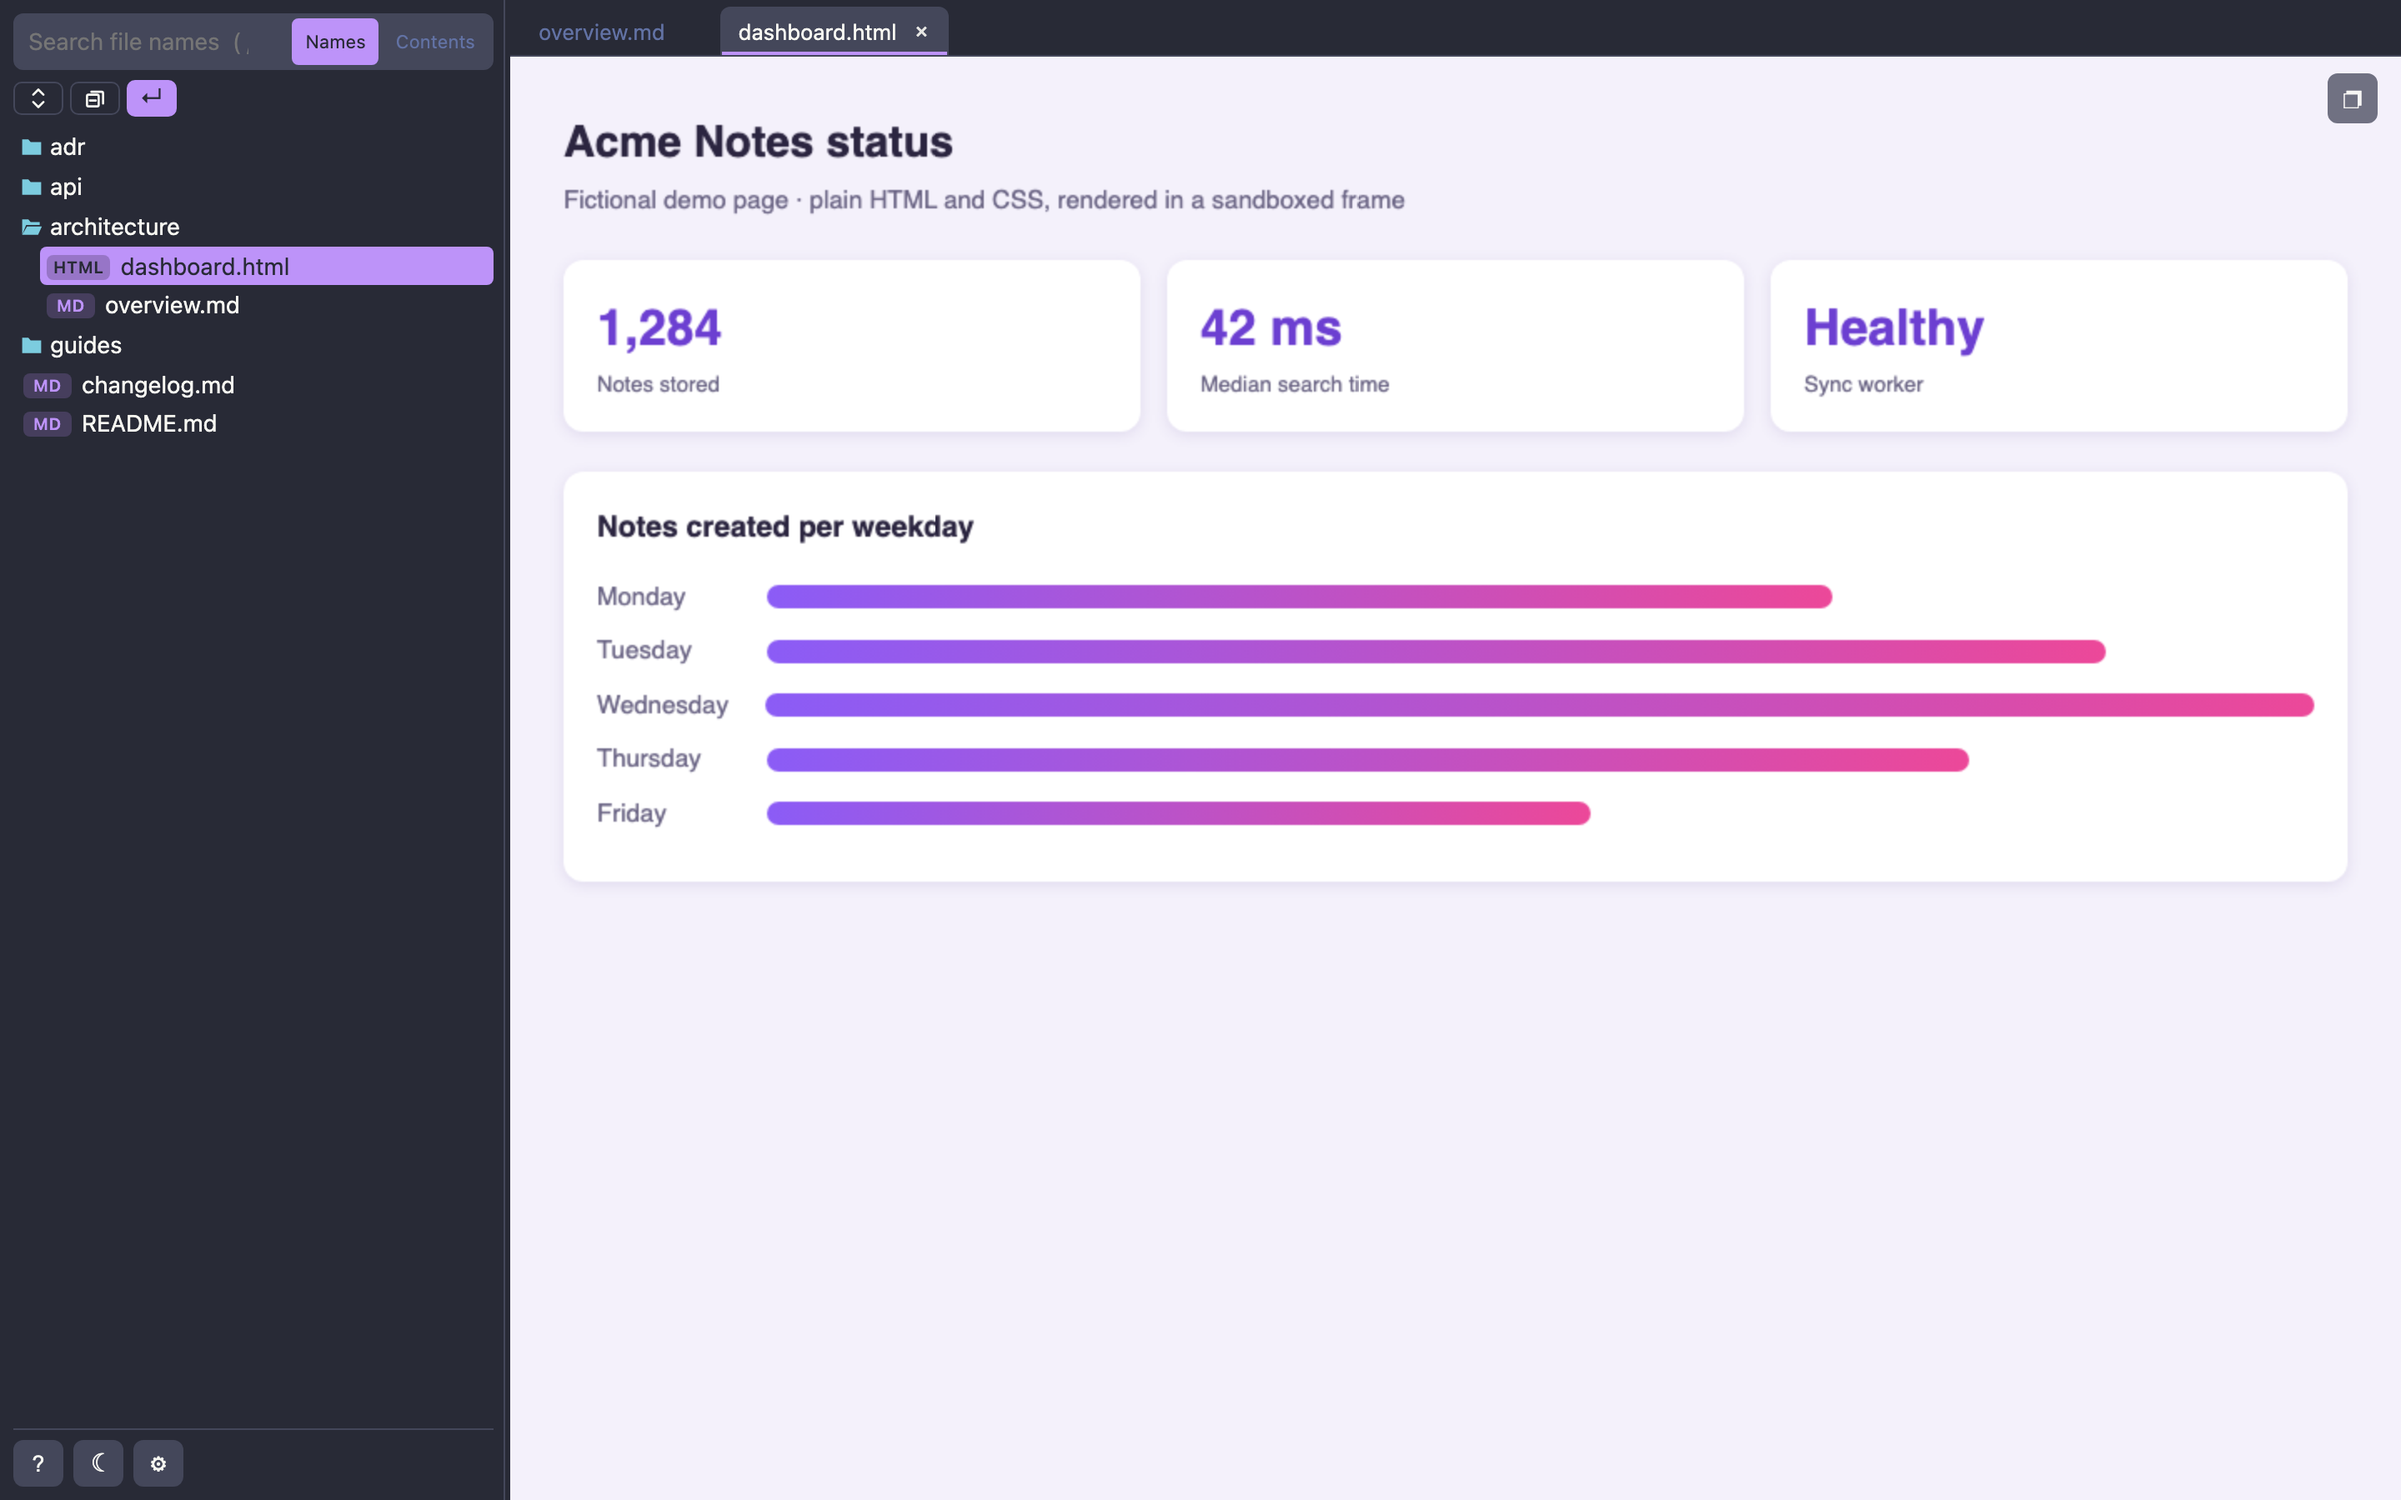
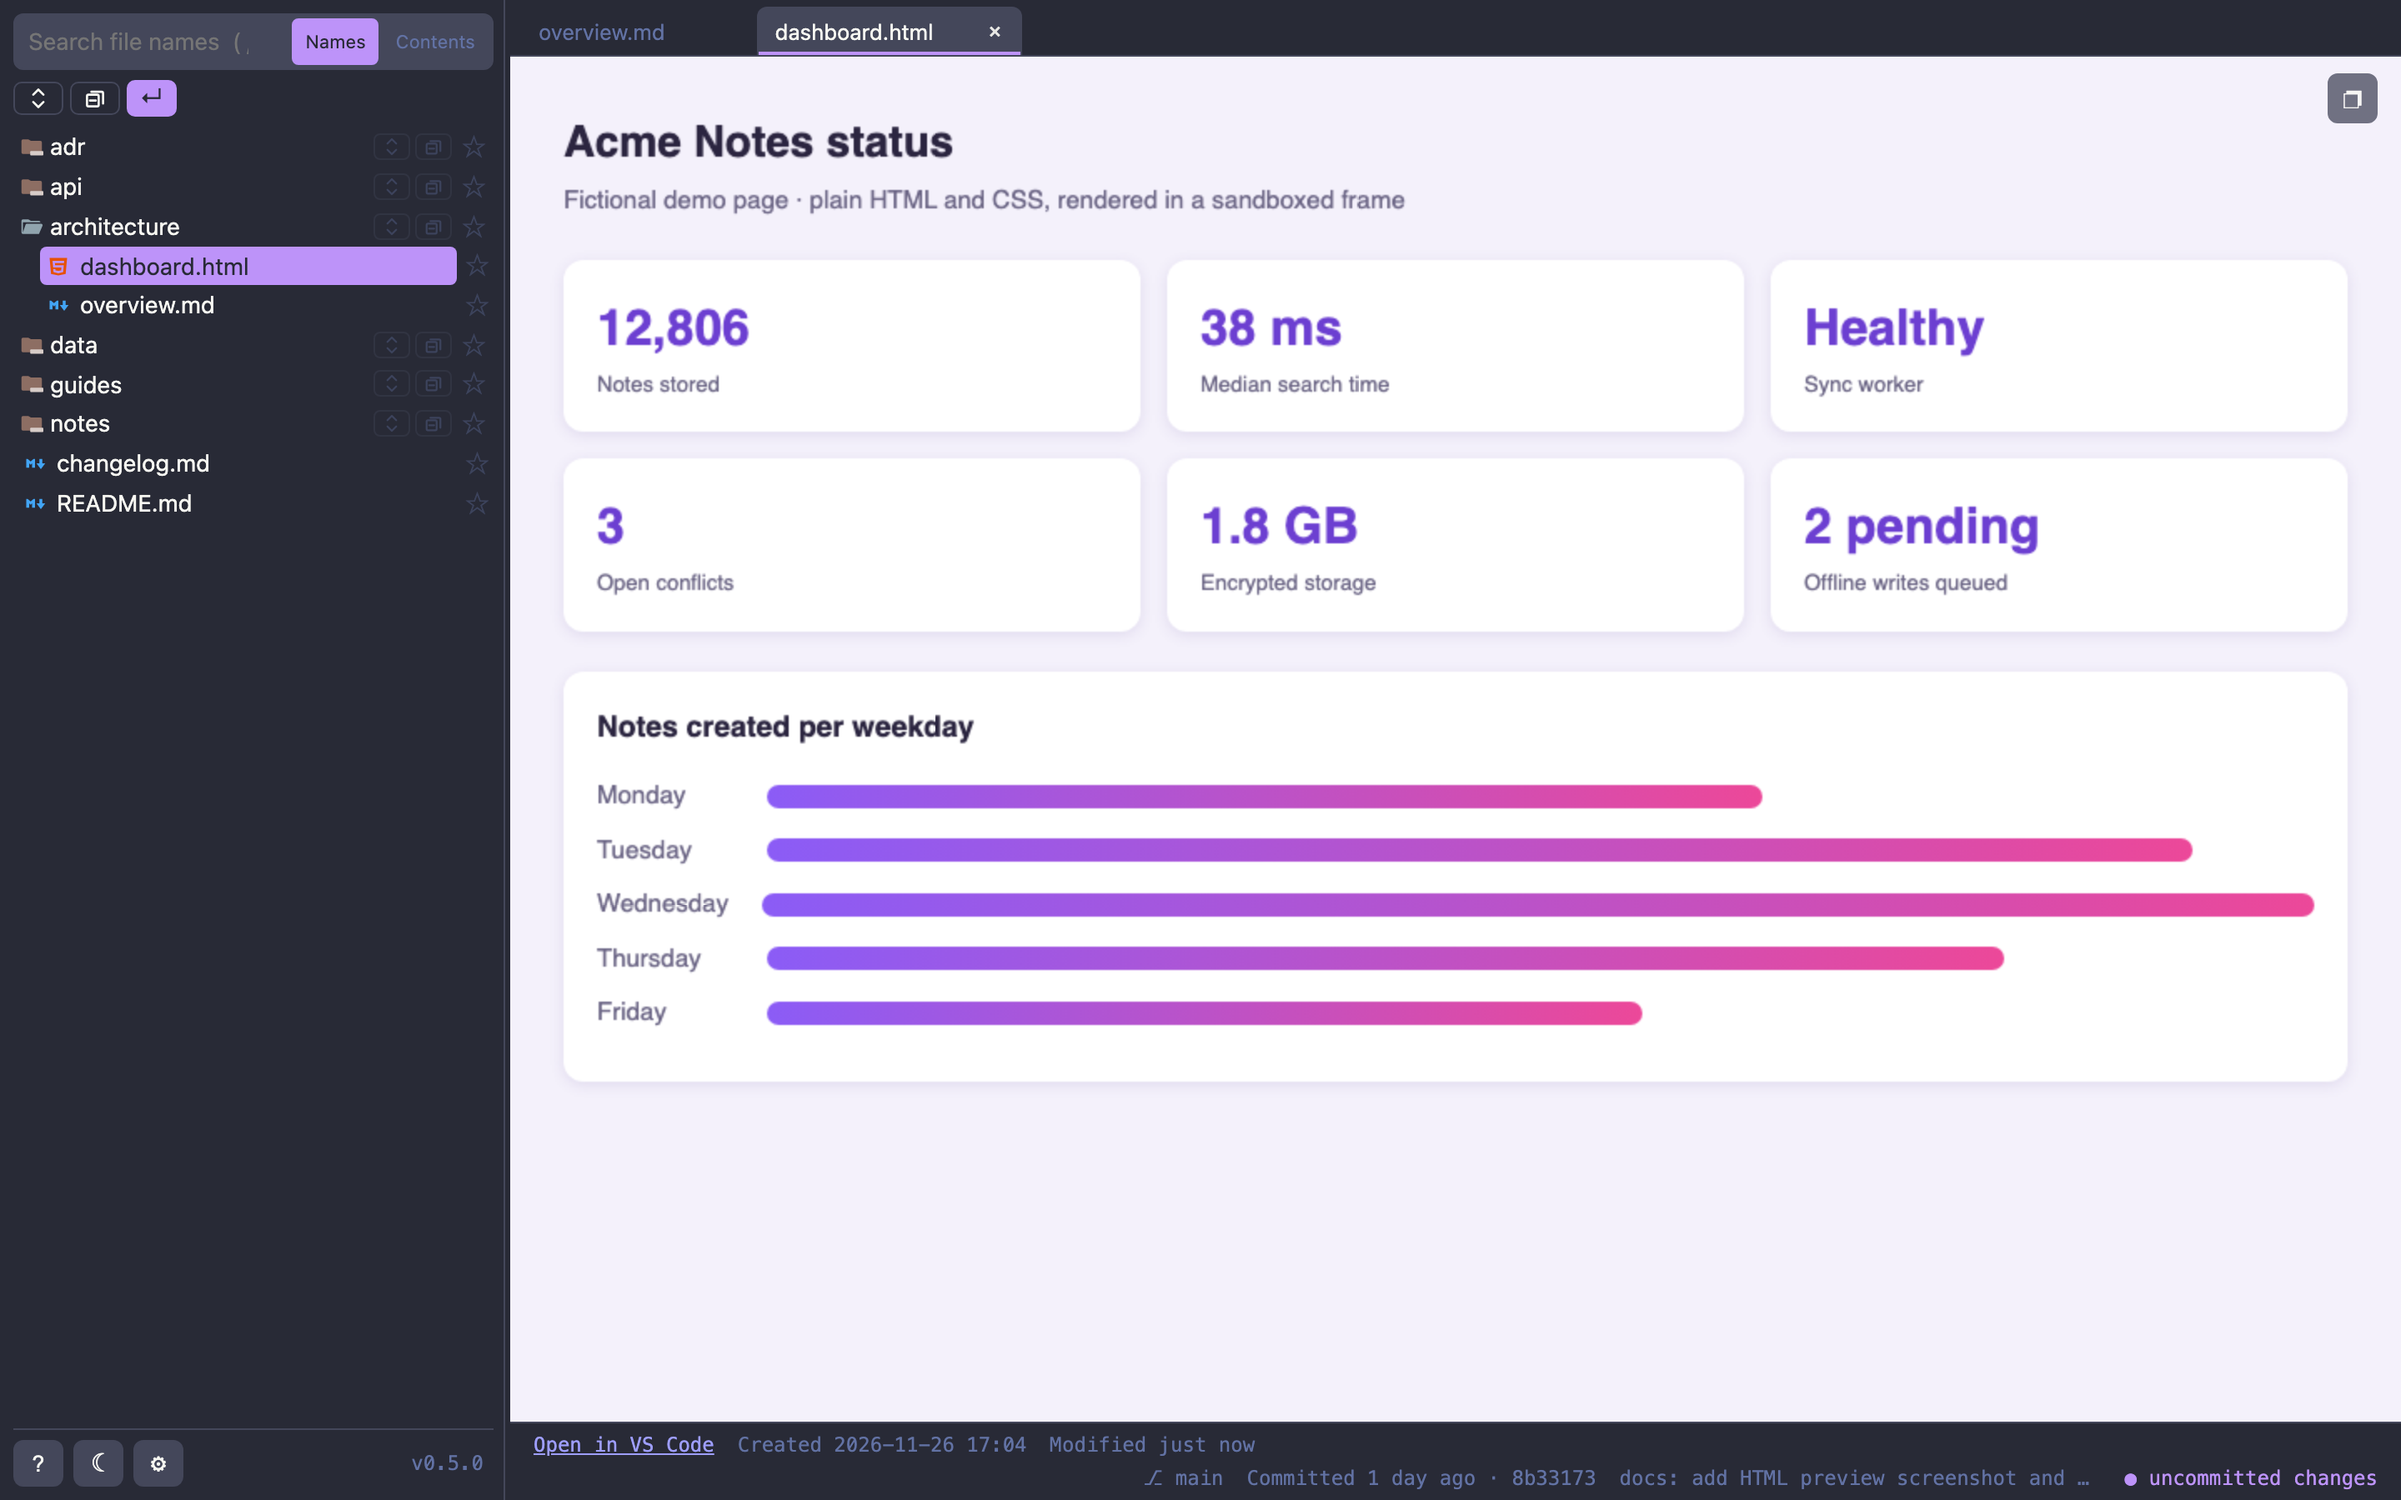
docs: refresh fictional demo docs and README screenshots
Regenerate examples/demo-docs with new Acme Notes content that covers
the main viewer features (outline, task lists, tables, Mermaid, code,
images, JSON/YAML/HTML previews, search target), then regenerate the
three README screenshots.

Claude-Session: https://claude.ai/code/session_019LG6GLPGxjMnNAWEwiLPfi

diff --git a/examples/demo-docs/architecture/dashboard.html b/examples/demo-docs/architecture/dashboard.html
@@ -16,23 +16,27 @@
   .bar i { display: block; height: 14px; border-radius: 7px; background: linear-gradient(90deg, #8b5cf6, #ec4899); }
   .bar em { width: 90px; font-style: normal; color: #6b6585; }
   .ok { color: #168a4b; font-weight: 600; }
+  .warn { color: #b45309; font-weight: 600; }
 </style>
 </head>
 <body>
   <h1>Acme Notes status</h1>
   <p class="sub">Fictional demo page &middot; plain HTML and CSS, rendered in a sandboxed frame</p>
   <div class="grid">
-    <div class="card"><b>1,284</b><span>Notes stored</span></div>
-    <div class="card"><b>42 ms</b><span>Median search time</span></div>
+    <div class="card"><b>12,806</b><span>Notes stored</span></div>
+    <div class="card"><b>38 ms</b><span>Median search time</span></div>
     <div class="card"><b class="ok">Healthy</b><span>Sync worker</span></div>
+    <div class="card"><b>3</b><span>Open conflicts</span></div>
+    <div class="card"><b>1.8 GB</b><span>Encrypted storage</span></div>
+    <div class="card"><b class="warn">2 pending</b><span>Offline writes queued</span></div>
   </div>
   <div class="panel">
     <h3 style="margin-top:0">Notes created per weekday</h3>
-    <div class="bar"><em>Monday</em><i style="width:62%"></i></div>
-    <div class="bar"><em>Tuesday</em><i style="width:78%"></i></div>
-    <div class="bar"><em>Wednesday</em><i style="width:91%"></i></div>
-    <div class="bar"><em>Thursday</em><i style="width:70%"></i></div>
-    <div class="bar"><em>Friday</em><i style="width:48%"></i></div>
+    <div class="bar"><em>Monday</em><i style="width:58%"></i></div>
+    <div class="bar"><em>Tuesday</em><i style="width:83%"></i></div>
+    <div class="bar"><em>Wednesday</em><i style="width:94%"></i></div>
+    <div class="bar"><em>Thursday</em><i style="width:72%"></i></div>
+    <div class="bar"><em>Friday</em><i style="width:51%"></i></div>
   </div>
 </body>
 </html>

diff --git a/examples/demo-docs/notes/2026-11-23-sync.md b/examples/demo-docs/notes/2026-11-23-sync.md
@@ -1,0 +1,44 @@
+# Weekly sync notes, 2026-11-23
+
+Attendees: Mina, Dev, Priya. Notes are taken by the rotating scribe.
+
+## Agenda
+
+1. Offline queue retries
+2. Conflict view feedback
+3. Storage costs for the encrypted tier
+
+## Offline queue retries
+
+The queue retries with exponential backoff, capped at 5 minutes. Two writes stayed pending over the weekend because the test device slept; both sent on wake-up.
+
+- [x] Cap the backoff at 5 minutes
+- [x] Log the retry count in the status page
+- [ ] Add a manual "retry now" button
+
+## Conflict view feedback
+
+Users asked for the two copies to show the time of each edit. The comparison view now sorts by time, newest on the right.
+
+```diff
+- Showing: local, remote
++ Showing: earlier, later (with timestamps)
+```
+
+## Storage costs
+
+Encrypted storage is 1.8 GB for 12,806 notes. Object storage cost stayed flat because deduplication works on ciphertext blocks only within one notebook.
+
+| Tier | Notes | Monthly cost |
+| --- | --- | --- |
+| Free | 1,000 | $0 |
+| Plus | 25,000 | $4 |
+| Team | unlimited | $12 per seat |
+
+Decision: keep the free tier at 1,000 notes until the search benchmark (see [ADR 0001](../adr/0001-use-sqlite.md)) is repeated on the new hardware.
+
+## Action items
+
+- Mina: write the retry button spec
+- Dev: publish the 1.3.0 release notes (see [changelog](../changelog.md))
+- Priya: review the encryption recovery flow ([ADR 0002](../adr/0002-end-to-end-encryption.md))

diff --git a/examples/demo-docs/api/rest.md b/examples/demo-docs/api/rest.md
@@ -2,18 +2,24 @@
 
 Base URL: `http://localhost:8080/api`
 
+All bodies are JSON. Authenticate with `Authorization: Bearer <token>`.
+
 ## Endpoints
 
 ### `GET /notes`
 
-Returns a list of notes.
+Returns a list of notes. Titles are plain text; bodies are encrypted at rest.
 
 ```json
 [
-  { "id": 1, "title": "Hello", "updated": "2025-01-15T09:30:00Z" },
-  { "id": 2, "title": "Ideas", "updated": "2025-01-16T14:05:00Z" }
+  { "id": 1, "title": "Hello", "updated": "2026-11-20T09:30:00Z" },
+  { "id": 2, "title": "Ideas", "updated": "2026-11-22T14:05:00Z" }
 ]
 ```
+
+### `GET /notes/{id}`
+
+Returns one note. The body is decrypted on the client.
 
 ### `POST /notes`
 
@@ -23,10 +29,16 @@ curl -X POST http://localhost:8080/api/notes \
   -d '{"title":"Hello","body":"First note"}'
 ```
 
+### `PUT /notes/{id}`
+
+Replaces the title and body. Returns `409` when the note changed on another device; see [sync conflicts](../changelog.md).
+
 ## Errors
 
 | Status | Meaning |
 | --- | --- |
 | `400` | Invalid request body |
+| `401` | Missing or expired token |
 | `404` | Note not found |
+| `409` | Sync conflict |
 | `429` | Too many requests |

diff --git a/examples/demo-docs/architecture/overview.md b/examples/demo-docs/architecture/overview.md
@@ -7,9 +7,12 @@ Acme Notes is a small service with a web client, an API server and a local store
 ```mermaid
 flowchart LR
   Client[Web client] --> API[API server]
-  API --> Store[(SQLite)]
+  API --> Store[(SQLite index)]
   API --> Sync[Sync worker]
   Sync --> Cloud[(Object storage)]
+  Client --> Cache[(Offline queue)]
+  style Cache fill:#fff3cd
+  style Cloud fill:#e3f2fd
 ```
 
 ## Request flow
@@ -25,12 +28,23 @@ sequenceDiagram
   W-->>U: Saved
 ```
 
+![Sync topology](./diagram.svg)
+
 ## Design goals
 
 1. Everything works offline.
 2. Notes are plain files that survive the app.
 3. The API stays small and predictable.
 
+### Trade-offs
+
+- Search runs on the device for encrypted notebooks.
+- The sync worker is single-tenant per process.
+
 ## Decisions
 
-See [ADR 0001](../adr/0001-use-sqlite.md) for why the index lives in SQLite.
+See [ADR 0001](../adr/0001-use-sqlite.md) for why the index lives in SQLite, and [ADR 0002](../adr/0002-end-to-end-encryption.md) for how note bodies are encrypted.
+
+## Status page
+
+The live status is on the [status dashboard](dashboard.html).

diff --git a/examples/demo-docs/adr/0002-end-to-end-encryption.md b/examples/demo-docs/adr/0002-end-to-end-encryption.md
@@ -1,0 +1,19 @@
+# ADR 0002: End-to-end encryption for note bodies
+
+- **Status:** Accepted
+- **Date:** 2026-03-14
+- **Supersedes:** none
+
+## Context
+
+Users store private journals in Acme Notes. The sync worker uploads note bodies to object storage, and the operator should not be able to read them.
+
+## Decision
+
+Encrypt each note body on the client with XChaCha20-Poly1305. The per-notebook key is derived from the user's passphrase with Argon2id. Titles stay in plain text so search by name keeps working.
+
+## Consequences
+
+- Losing the passphrase means losing the notes; the recovery kit is shown once at sign-up.
+- Full-text search over bodies runs on the device, not on the server.
+- Sync payloads grow by about 3 percent because of nonces and tags.

diff --git a/examples/demo-docs/README.md b/examples/demo-docs/README.md
@@ -5,8 +5,15 @@ Acme Notes is a **fictional** note-taking service used as demo content for docs-
 ## Contents
 
 - [Getting started](guides/getting-started.md)
+- [Keyboard shortcuts](guides/keyboard-shortcuts.md)
 - [Architecture overview](architecture/overview.md)
+- [Status dashboard](architecture/dashboard.html)
 - [REST API](api/rest.md)
+- [Sample configuration](api/config.yaml)
+- [Sample data](data/sample-notes.json)
+- [Release notes](changelog.md)
 - [ADR 0001: use SQLite](adr/0001-use-sqlite.md)
+- [ADR 0002: end-to-end encryption](adr/0002-end-to-end-encryption.md)
+- [Weekly sync notes](notes/2026-11-23-sync.md)
 
 > Tip: press `/` to search file names, or switch the search box to **Contents** to search inside files.

diff --git a/examples/demo-docs/guides/keyboard-shortcuts.md b/examples/demo-docs/guides/keyboard-shortcuts.md
@@ -5,3 +5,20 @@
 | `Ctrl+N` | New note |
 | `Ctrl+P` | Quick switcher |
 | `Ctrl+Shift+F` | Search all notes |
+| `Ctrl+Shift+E` | Export the current notebook |
+| `Ctrl+Enter` | Save and close the editor |
+| `Alt+←` / `Alt+→` | Back and forward through recent notes |
+
+## Editing
+
+```text
+Ctrl+B   bold
+Ctrl+I   italic
+Ctrl+K   insert link
+Ctrl+/   toggle a task checkbox
+```
+
+## Tips
+
+- Hold `Ctrl` while clicking a note to open it in a new tab.
+- Use `Esc` to leave the quick switcher without opening anything.

diff --git a/examples/demo-docs/changelog.md b/examples/demo-docs/changelog.md
@@ -1,10 +1,19 @@
 # Changelog
 
+## 1.3.0
+
+- Added the quick switcher (`Ctrl+P`)
+- Faster search across 10,000 notes
+- Attachments can be previewed inline
+- [x] Pinned notes stay at the top of the list
+- [ ] Shared notebooks (planned for 1.4)
+
 ## 1.2.0
 
-- Added quick switcher
-- Faster search
+- Added offline mode with a local write queue
+- Sync conflicts keep both copies and open a comparison view
 
 ## 1.1.0
 
-- Added sync worker
+- Added the sync worker
+- Markdown tables render with horizontal scrolling

diff --git a/examples/demo-docs/adr/0001-use-sqlite.md b/examples/demo-docs/adr/0001-use-sqlite.md
@@ -9,9 +9,10 @@ We need fast full-text search over thousands of notes without running a separate
 
 ## Decision
 
-Store the search index in a single SQLite file next to the notes.
+Store the search index in a single SQLite file next to the notes, using the FTS5 extension.
 
 ## Consequences
 
 - Zero-config deployment.
 - Single-writer limit is acceptable for a personal tool.
+- See [ADR 0002](0002-end-to-end-encryption.md): the index holds titles only once bodies are encrypted.

diff --git a/examples/demo-docs/guides/getting-started.md b/examples/demo-docs/guides/getting-started.md
@@ -24,8 +24,10 @@ print(note.id)
 | `port` | `8080` | HTTP port |
 | `data_dir` | `~/notes` | Where notes are stored |
 | `sync` | `false` | Enable background sync |
+| `encryption` | `on` | Encrypt note bodies ([ADR 0002](../adr/0002-end-to-end-encryption.md)) |
 
 ## Next steps
 
 - [ ] Read the [architecture overview](../architecture/overview.md)
+- [ ] Save your recovery kit somewhere safe
 - [x] Install the CLI

diff --git a/examples/demo-docs/notes/search-target.md b/examples/demo-docs/notes/search-target.md
@@ -1,0 +1,5 @@
+# Search target
+
+This note holds the unique phrase heron-search-demo-7 for the Contents search demo.
+
+Another line without the phrase, so the result shows a snippet around the match.
